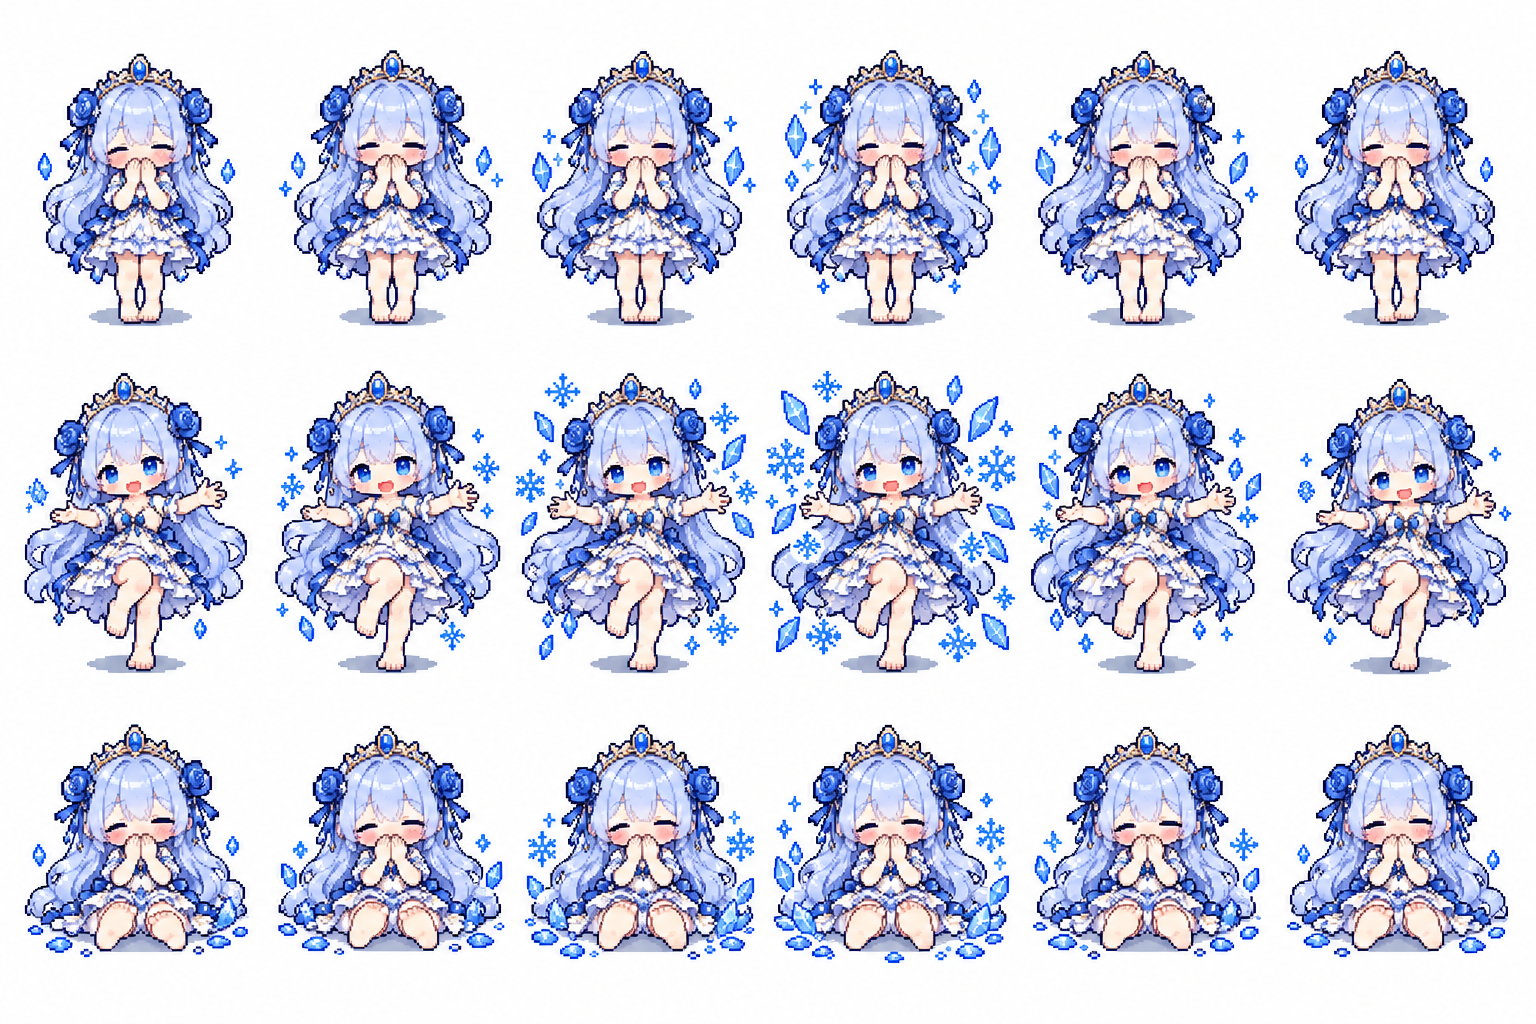
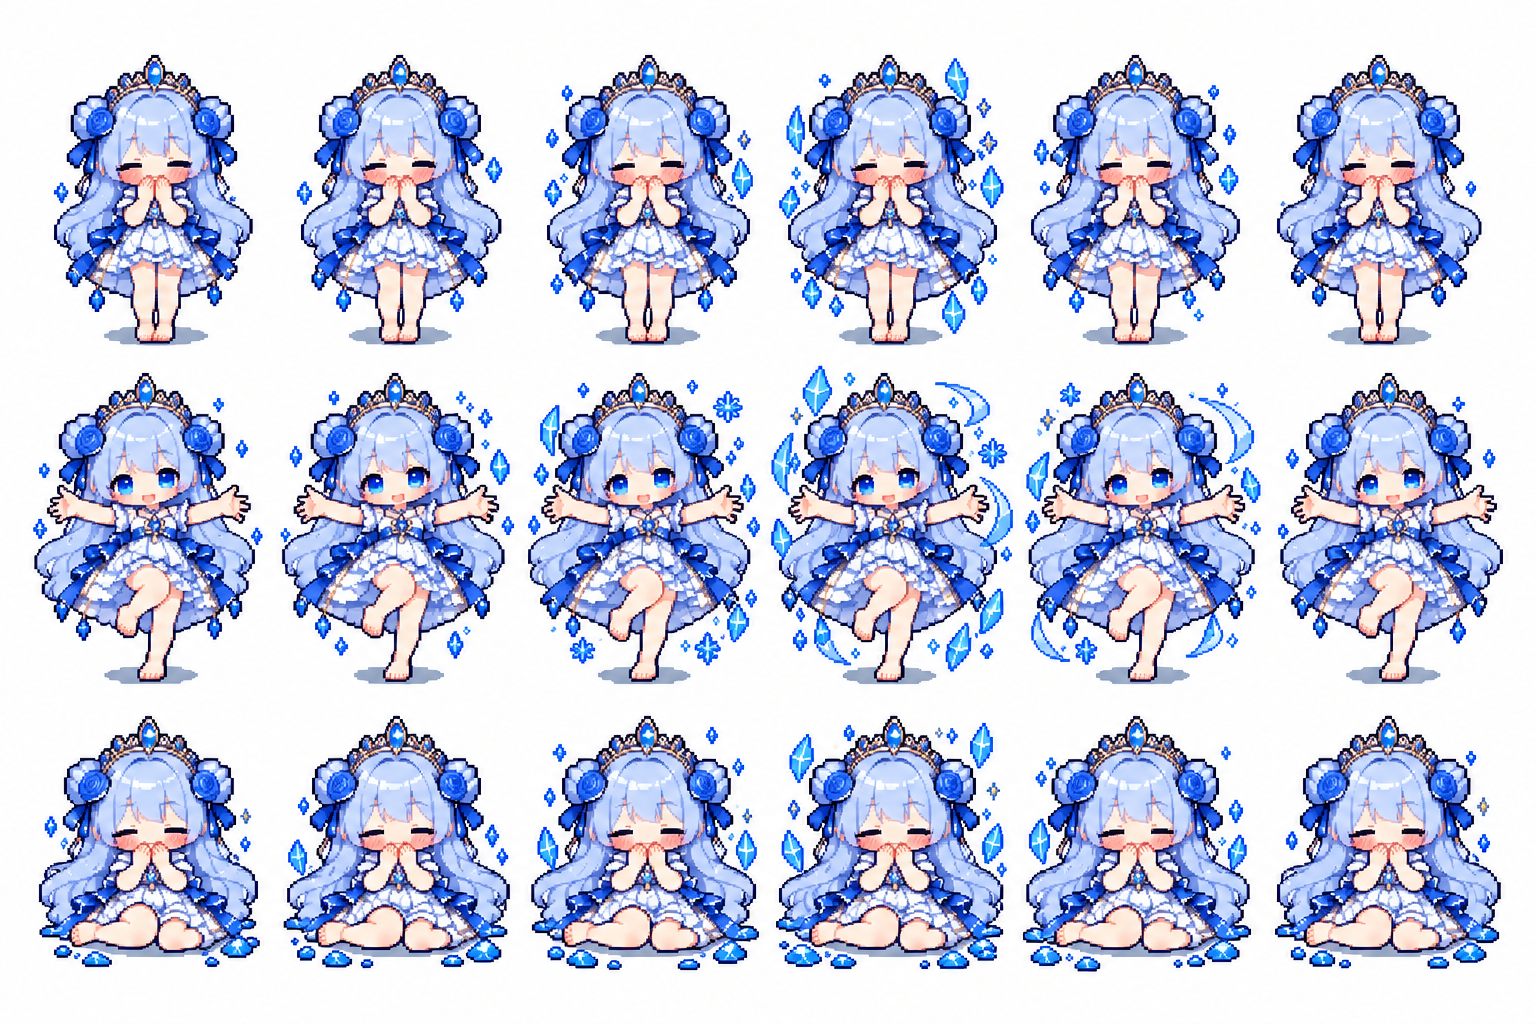
精细像素：粉色 / 蓝色公主的走路和魔法对着立绘重画，正面待机会眨眼
- 走路（四向各 4 帧、左右脚交替）、魔法（普通 / 战损的吟唱、释放，战损光脚）第四版，codex 生成，参考画风小人 + 普通立绘 + 魔法立绘
- 待机眨眼：导入器 close_eyes 在每行正面待机帧上直接合上眼睛，图集多两列（半闭 / 闭眼）；SpriteSheetAnimator._blink 正面待机时每 2.8~5 秒眨一下
- 列数按贴图宽算（原像素图不受影响）；settings_test 补眨眼检查；文档同步

diff --git a/tools/art/import_sprites_px64.py b/tools/art/import_sprites_px64.py
@@ -8,6 +8,7 @@
 游戏里 SpriteSheetAnimator 在「角色画风：精细像素」时换上这些图（Sprite 缩到 1/8 再放大 HD_ENLARGE 倍、线性过滤），缺图用原来的 32 格像素图。
 源图（每个角色）：<p>_walk 4×4（下 / 左 / 右 / 上走路）、<p>_expr 2×4（站着的表情：普通 开心 生气 难过 / 惊讶 害羞 憋笑 大笑）、
   <p>_damaged 5×4（战损走路四向 + 第 5 行战损憋笑正面）、<p>_helpless 2×4（失控一 坐地笑 / 失控二 躺地蹬脚）、<p>_magic1 / _magic2 3×6（魔法姿态）。
+  待机眨眼：图集多两列（第 16 列半闭眼、第 17 列闭眼），直接在每行正面待机帧上合上眼睛（close_eyes），SpriteSheetAnimator 在正面待机时隔几秒插一下。
 笑雾之中的骑士：knight_possessed.png（2×4：浮空 / 落地被解脱）→ npcs/knight_possessed.png（80 格）。
 用法：python tools/art/import_sprites_px64.py [pink] [blue] [host] [knight] [--preview]（检查图在 tools/.cache/px64/）
 """
@@ -32,6 +33,10 @@ HELPLESS_H = 200
 WALK_DIRS = ["down", "left", "right", "up"]
 # 每种源表：行数 × 每行帧数
 LAYOUT = {"possessed": [4] * 2, "walk": [4] * 4, "expr": [4] * 2, "damaged": [4] * 5, "helpless": [4] * 2, "magic1": [6] * 3, "magic2": [6] * 3, "attack": [3] * 4}
+# 待机眨眼 → 图集第 16 / 17 列：半闭眼 / 闭眼（只有正面待机用）。直接在每行正面待机帧上合上眼睛（close_eyes），和走路图一模一样不跳画风；
+# 找不到两只眼睛的行（本来就闭着眼、失控……）复制待机帧（不眨）
+BLINK_HALF_COL = 16
+BLINK_SHUT_COL = 17
 # 站着的表情（expr 表的格子）→ 状态
 EXPR = {"normal": 0, "happy": 1, "angry": 2, "sad": 3, "surprise": 4, "shy": 5, "giggle": 6}
 # 魔法：magic1 三行 + magic2 三行 = magic_order
@@ -72,6 +77,73 @@ def snap(im, s):
     return out.crop(out.getbbox()) if out.getbbox() else out
 
 
+def find_eyes(a):
+    """正面待机帧里两只眼睛的瞳孔框 (y0, y1, x0, x1)：头部那一段里、蓝色饱和、不大、颜色深的连通块，中线左右各取最大的一块。"""
+    from scipy import ndimage
+    al = a[..., 3] > 128
+    ys, xs = np.where(al)
+    if len(ys) == 0:
+        return []
+    top, bot = ys.min(), ys.max()
+    h = bot - top
+    cx = (xs.min() + xs.max()) / 2
+    rgb = a[..., :3].astype(float) / 255
+    mx = rgb.max(-1)
+    mn = rgb.min(-1)
+    sat = np.where(mx > 0, (mx - mn) / np.maximum(mx, 1e-6), 0)
+    blue = (rgb[..., 2] > rgb[..., 0] + 0.15) & (rgb[..., 2] >= rgb[..., 1]) & (sat > 0.45) & (mx > 0.3) & al
+    band = np.zeros_like(blue)
+    band[int(top + h * 0.12):int(top + h * 0.42), :] = True
+    lab, n = ndimage.label(blue & band)
+    comps = []
+    for i in range(1, n + 1):
+        yy, xx = np.where(lab == i)
+        if len(yy) < 12:
+            continue
+        if yy.max() - yy.min() + 1 > 30 or xx.max() - xx.min() + 1 > 26 or mx[yy, xx].mean() > 0.8:
+            continue
+        comps.append((len(yy), yy.min(), yy.max(), xx.min(), xx.max()))
+    out = []
+    for side in ([c for c in comps if 0 < cx - (c[3] + c[4]) / 2 < 60], [c for c in comps if 0 <= (c[3] + c[4]) / 2 - cx < 60]):
+        if side:
+            c = max(side)
+            out.append((c[1], c[2], c[3], c[4]))
+    return out if len(out) == 2 else []
+
+
+def close_eyes(a, mode):
+    """合上眼睛（mode = half 半闭 / shut 闭眼）：眼睛那一块「像眼睛」的像素（深色描边、蓝色、眼白）盖成下面的皮肤色，再画一道睫毛线（闭眼往下弯）。"""
+    a = a.copy()
+    for (y0, y1, x0, x1) in find_eyes(a):
+        reg_s = a[y1 + 2:y1 + 10, x0:x1 + 1, :3].reshape(-1, 3).astype(int)
+        ok = reg_s[(reg_s[:, 0] > 190) & (reg_s[:, 0] > reg_s[:, 2] + 10) & (reg_s[:, 1] > 140)]
+        skin = np.median(ok, 0).astype(int) if len(ok) else np.array([255, 224, 210])
+        by, bx = y0 - 5, x0 - 3
+        reg = a[by:y1 + 2, bx:x1 + 4].copy()
+        rgb = reg[..., :3].astype(int)
+        eyeish = ((rgb.sum(-1) < 330) | (rgb[..., 2] > rgb[..., 0] + 10) | ((rgb.min(-1) > 215) & (rgb[..., 2] >= rgb[..., 0] - 5))) & (reg[..., 3] > 128)
+        lash = rgb.reshape(-1, 3)[rgb.sum(-1).argmin()]
+        ys, xs = np.where(eyeish)
+        if len(ys) == 0:
+            continue
+        ey0, hgt = ys.min(), ys.max() - ys.min() + 1
+        cut = ey0 + (hgt if mode == "shut" else int(hgt * 0.5))
+        for yy, xx in zip(ys, xs):
+            if yy < cut:
+                a[by + yy, bx + xx, :3] = skin
+        th = max(2, hgt // 8)
+        xl, w = xs.min(), max(1, xs.max() - xs.min())
+        ly = ey0 + int(hgt * (0.6 if mode == "shut" else 0.5))
+        for x in range(xl, xs.max() + 1):
+            t = (x - xl) / w
+            dy = int(round((1 - (2 * t - 1) ** 2) * th)) if mode == "shut" else 0
+            for k in range(th):
+                yy, xx = by + ly + dy + k - th // 2, bx + x
+                if a[yy, xx, 3] > 128:
+                    a[yy, xx, :3] = lash
+    return a
+
+
 def place(im, cell, margin=4):
     if im.height > cell - margin or im.width > cell:
         k = min((cell - margin) / im.height, cell / im.width)
@@ -88,7 +160,8 @@ def build(char):
     snapped = {k: [[snap(f, scales[k]) for f in row] for row in rows] for k, rows in src.items()}
     s = scales["walk"]
     W, E, D, H = snapped["walk"], snapped["expr"], snapped["damaged"], snapped["helpless"]
-    sheet = Image.new("RGBA", (CELL * 16, CELL * len(EMOTIONS)))
+    cols = 18
+    sheet = Image.new("RGBA", (CELL * cols, CELL * len(EMOTIONS)))
     for r, name in enumerate(EMOTIONS):
         for d in range(4):
             for f in range(4):
@@ -103,6 +176,9 @@ def build(char):
                 else:
                     img = H[1][f]
                 sheet.alpha_composite(place(img, CELL), ((d * 4 + f) * CELL, r * CELL))
+        idle = np.asarray(sheet.crop((0, r * CELL, CELL, (r + 1) * CELL)))
+        for col, mode in ((BLINK_HALF_COL, "half"), (BLINK_SHUT_COL, "shut")):
+            sheet.alpha_composite(Image.fromarray(close_eyes(idle, mode)), (col * CELL, r * CELL))
     sheet.save(OUT / ("%s_hd.png" % out_name))
     if "magic1" in snapped and "magic2" in snapped:
         magic = Image.new("RGBA", (MAGIC_CELL * 6, MAGIC_CELL * len(MAGIC)))

diff --git a/docs/ARCHITECTURE.md b/docs/ARCHITECTURE.md
@@ -1230,6 +1230,9 @@ data/cutscenes/<楼层组>/  地图内过场；data/theater/<楼层组>/  小剧
   源图是 **codex 直接画的像素风**（`tools/art/src/px64/`，提示词同目录 `prompts.md`；用户确认过的画风是 `ref_style_walk.png`）：每个角色 6 张——走路 4×4、站着的表情 2×4、
   战损走路 + 战损憋笑 5×4、失控 2×4、魔法 3×6 两张（派对主人再加攻击 4×3）。侧面走路四帧左右脚交替（不是平移）。
   `tools/art/import_sprites_px64.py` 直接导入（源图本身就是像素风，不再压成一个色块一个像素）：切帧（`import_sprites_v2.Sheet`）→ 按人物身体高度把各张源表统一到 `BODY_H`（216，最近邻、缩放比接近 1）→ 排进 256 格。
+  **待机眨眼**：精细像素行走图集是 18 列（16 列 + 第 16 列半闭眼、第 17 列闭眼）；导入器 `close_eyes` 直接在每行正面待机帧上合上眼睛（和走路图同一张画，不跳画风；找不到两只眼睛的行复制待机帧），
+  `SpriteSheetAnimator._blink` 在正面待机时每 `BLINK_EVERY` 秒（随机）插一次半闭 → 闭 → 半闭（`BLINK_TIME`）；列数按贴图宽算，原像素图不眨。
+  粉色 / 蓝色公主的走路、魔法（普通 / 战损的吟唱、释放，战损光脚）第四版对着立绘重画（参考图：画风小人 + 普通立绘 + 魔法立绘）。
   运行时 `SpriteSheetAnimator._use_sheet` 按 `UserSettings.styled_path` 换成同名 `_hd.png`（缺图回退原像素图），Sprite 缩到 `HD_ENLARGE`（1.25）/ `HD_SCALE`（8）——人物比原像素图大一圈，offset 放大 `HD_SCALE` 倍（脚底不变），线性过滤（画面按窗口分辨率渲染，缩小时细节不丢），
   `UserSettings.revision` 变了下一帧重选；CG 舞台的公主演员走同一套。`princess.tscn` 的贴图引用 `princess.png`（以前是内嵌的导入贴图，找不到同名图）。
 - **设置菜单**（P，动作 `settings`）：`SettingsMenu`（`scripts/ui/settings_menu.gd`，`main.gd` 进场时加上，CanvasLayer 31，打开时暂停；对话 / 过场 / 别的菜单开着时不响应）：
